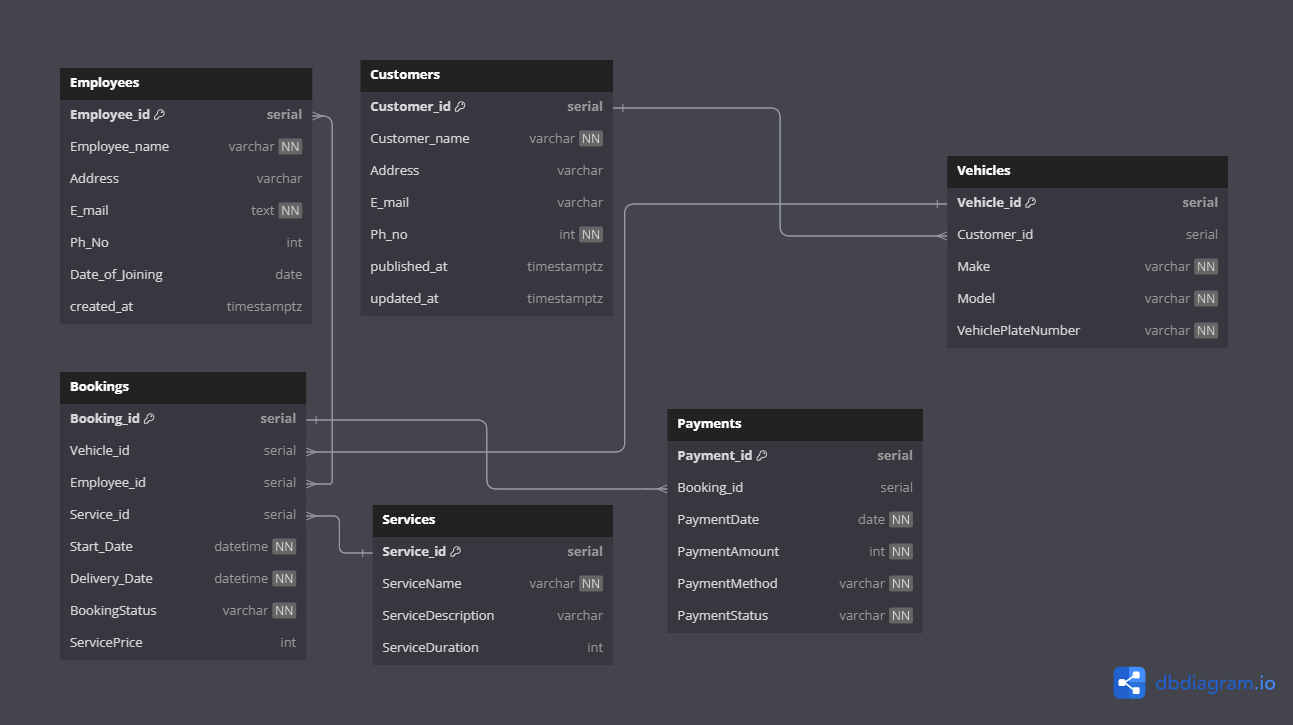
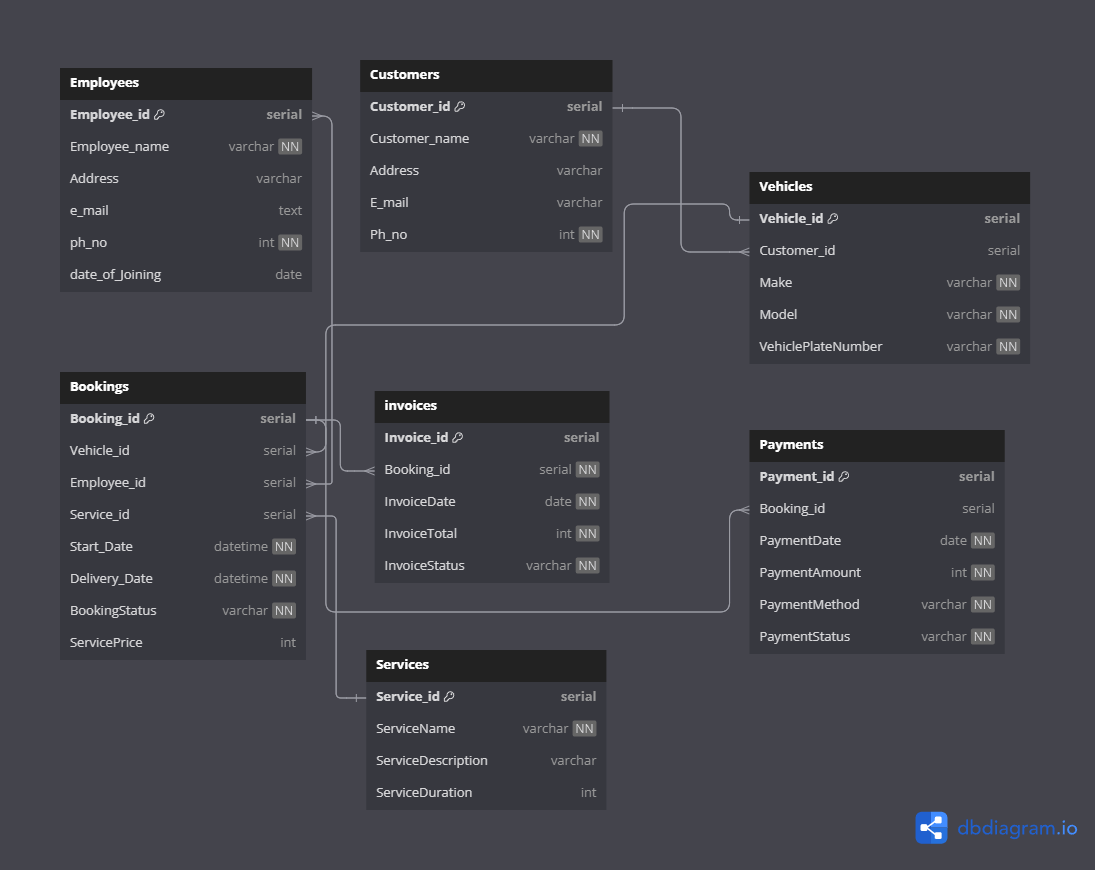
Addition of Customer, Vehicle Booking, Relations..

diff --git a/src/main/java/com/GarageManager/webservices/rest/GarageManager_restful_web_services/Employees/Employee.java b/src/main/java/com/GarageManager/webservices/rest/GarageManager_restful_web_services/Employees/Employee.java
@@ -5,7 +5,8 @@ import java.time.LocalDate;
 import jakarta.persistence.Entity;
 import jakarta.persistence.GeneratedValue;
 import jakarta.persistence.Id;
-import jakarta.validation.constraints.Past;
+import jakarta.validation.constraints.Email;
+import jakarta.validation.constraints.NotNull;
 import jakarta.validation.constraints.Size;
 
 @Entity
@@ -19,45 +20,106 @@ public class Employee {
 	@GeneratedValue
 	private Integer employee_id; 
 	
-	@Size(min=3, max=30,message = "Name Should have Atleast have 3 characters")
+	@Size(min=3, max=30,message = "Name Should have Atleast 3 characters")
 	private String employee_name;
-	@Past(message= "Birth Date Should be in Past")
-	private LocalDate birthDate;
 	
-	public Employee(Integer id, String name, LocalDate birthDate) {
+	@Size(max=30,message = "Address Should Not have More than 30 characters")
+	private String address;
+	
+	@Email(regexp = ".+[@].+[\\.].+")
+	private String e_mail;
+	
+	@NotNull
+	private long ph_no;
+	
+	private LocalDate date_of_Joining;
+	
+	
+	public Employee(Integer employee_id,
+			String employee_name,
+			String address,
+			String e_mail,
+			long ph_no,
+			LocalDate date_of_Joining) {
 		super();
-		this.employee_id = id;
-		this.employee_name = name;
-		this.birthDate = birthDate;
+		this.employee_id = employee_id;
+		this.employee_name = employee_name;
+		this.address = address;
+		this.e_mail = e_mail;
+		this.ph_no = ph_no;
+		this.date_of_Joining = date_of_Joining;
 	}
+
 
 	public Integer getEmployee_id() {
 		return employee_id;
 	}
 
-	public void setEmployee_id(Integer id) {
-		this.employee_id = id;
+
+	public void setEmployee_id(Integer employee_id) {
+		this.employee_id = employee_id;
 	}
+
 
 	public String getEmployee_name() {
 		return employee_name;
 	}
 
-	public void setEmployee_name(String name) {
-		this.employee_name = name;
+
+	public void setEmployee_name(String employee_name) {
+		this.employee_name = employee_name;
 	}
 
-	public LocalDate getBirthDate() {
-		return birthDate;
+
+	public String getAddress() {
+		return address;
 	}
 
-	public void setBirthDate(LocalDate birthDate) {
-		this.birthDate = birthDate;
+
+	public void setAddress(String address) {
+		this.address = address;
 	}
+
+
+	public String getE_mail() {
+		return e_mail;
+	}
+
+
+	public void setE_mail(String e_mail) {
+		this.e_mail = e_mail;
+	}
+
+
+	public long getPh_no() {
+		return ph_no;
+	}
+
+
+	public void setPh_no(long ph_no) {
+		this.ph_no = ph_no;
+	}
+
+
+	public LocalDate getDate_of_Joining() {
+		return date_of_Joining;
+	}
+
+
+	public void setDate_of_Joining(LocalDate date_of_Joining) {
+		this.date_of_Joining = date_of_Joining;
+	}
+
 
 	@Override
 	public String toString() {
-		return "Employees [id=" + employee_id + ", name=" + employee_name + ", birthDate=" + birthDate + "]";
+		return "Employee [employee_id=" + employee_id + ", employee_name=" + employee_name + ", address=" + address
+				+ ", e_mail=" + e_mail + ", ph_no=" + ph_no + ", date_of_Joining=" + date_of_Joining + "]";
 	}
+	
+
+	
+
+	
 
 }

diff --git a/src/main/java/com/GarageManager/webservices/rest/GarageManager_restful_web_services/Customers/Customer.java b/src/main/java/com/GarageManager/webservices/rest/GarageManager_restful_web_services/Customers/Customer.java
@@ -1,0 +1,96 @@
+package com.GarageManager.webservices.rest.GarageManager_restful_web_services.Customers;
+
+import java.util.List;
+
+import com.GarageManager.webservices.rest.GarageManager_restful_web_services.Vehicles.Vehicle;
+import com.fasterxml.jackson.annotation.JsonIgnore;
+
+import jakarta.persistence.Entity;
+import jakarta.persistence.GeneratedValue;
+import jakarta.persistence.Id;
+import jakarta.persistence.OneToMany;
+import jakarta.validation.constraints.Email;
+import jakarta.validation.constraints.NotNull;
+import jakarta.validation.constraints.Size;
+
+@Entity
+public class Customer {
+	
+	@Id
+	@GeneratedValue
+	private Integer customer_id; 
+	
+	@Size(min=3, max=30,message = "Name Should have Atleast 3 characters")
+	private String customer_name;
+
+	@Size(max=30,message = "Address Should Not have More than 30 characters")
+	private String address;
+	
+	@Email(regexp = ".+[@].+[\\.].+")
+	private String e_mail;
+	
+	@NotNull
+	private long ph_no;
+	
+	@OneToMany(mappedBy = "customer")
+	@JsonIgnore
+	private List<Vehicle> vehicles;
+
+	public Customer(Integer customer_id,
+			@Size(min = 3, max = 30, message = "Name Should have Atleast 3 characters") String customer_name,
+			@Size(max = 30, message = "Address Should Not have More than 30 characters") String address,
+			@Email(regexp = ".+[@].+[\\.].+") String e_mail, @NotNull long ph_no) {
+		super();
+		this.customer_id = customer_id;
+		this.customer_name = customer_name;
+		this.address = address;
+		this.e_mail = e_mail;
+		this.ph_no = ph_no;
+	}
+
+	public Integer getCustomer_id() {
+		return customer_id;
+	}
+
+	public void setCustomer_id(Integer customer_id) {
+		this.customer_id = customer_id;
+	}
+
+	public String getCustomer_name() {
+		return customer_name;
+	}
+
+	public void setCustomer_name(String customer_name) {
+		this.customer_name = customer_name;
+	}
+
+	public String getAddress() {
+		return address;
+	}
+
+	public void setAddress(String address) {
+		this.address = address;
+	}
+
+	public String getE_mail() {
+		return e_mail;
+	}
+
+	public void setE_mail(String e_mail) {
+		this.e_mail = e_mail;
+	}
+
+	public long getPh_no() {
+		return ph_no;
+	}
+
+	public void setPh_no(long ph_no) {
+		this.ph_no = ph_no;
+	}
+
+	@Override
+	public String toString() {
+		return "Customer [customer_id=" + customer_id + ", customer_name=" + customer_name + ", address=" + address
+				+ ", e_mail=" + e_mail + ", ph_no=" + ph_no + "]";
+	}
+}

diff --git a/src/main/java/com/GarageManager/webservices/rest/GarageManager_restful_web_services/Vehicles/Vehicle.java b/src/main/java/com/GarageManager/webservices/rest/GarageManager_restful_web_services/Vehicles/Vehicle.java
@@ -1,0 +1,73 @@
+package com.GarageManager.webservices.rest.GarageManager_restful_web_services.Vehicles;
+
+import com.GarageManager.webservices.rest.GarageManager_restful_web_services.Customers.Customer;
+import com.fasterxml.jackson.annotation.JsonIgnore;
+
+import jakarta.persistence.Entity;
+import jakarta.persistence.FetchType;
+import jakarta.persistence.GeneratedValue;
+import jakarta.persistence.Id;
+import jakarta.persistence.JoinColumn;
+import jakarta.persistence.ManyToOne;
+import jakarta.validation.constraints.NotNull;
+
+@Entity
+public class Vehicle {
+	
+	@Id
+	@GeneratedValue
+	private Integer vehicle_id;
+	
+	@ManyToOne(fetch = FetchType.LAZY)
+	@JoinColumn(name="customer_id")
+	@JsonIgnore
+	private Customer customer;
+	
+	@NotNull
+	private String make;
+	
+	@NotNull
+	private String model;
+	
+	@NotNull
+	private String VehiclePlateNumber;
+
+	public Integer getVehicle_id() {
+		return vehicle_id;
+	}
+
+	public void setVehicle_id(Integer vehicle_id) {
+		this.vehicle_id = vehicle_id;
+	}
+
+	public String getMake() {
+		return make;
+	}
+
+	public void setMake(String make) {
+		this.make = make;
+	}
+
+	public String getModel() {
+		return model;
+	}
+
+	public void setModel(String model) {
+		this.model = model;
+	}
+
+	public String getVehiclePlateNumber() {
+		return VehiclePlateNumber;
+	}
+
+	public void setVehiclePlateNumber(String vehiclePlateNumber) {
+		VehiclePlateNumber = vehiclePlateNumber;
+	}
+
+	@Override
+	public String toString() {
+		return "Vehicle [vehicle_id=" + vehicle_id + ", customer=" + customer + ", make=" + make + ", model=" + model
+				+ ", VehiclePlateNumber=" + VehiclePlateNumber + "]";
+	}
+
+}

diff --git a/src/main/java/com/GarageManager/webservices/rest/GarageManager_restful_web_services/Employees/EmployeeDaoService.java b/src/main/java/com/GarageManager/webservices/rest/GarageManager_restful_web_services/Employees/EmployeeDaoService.java
@@ -17,9 +17,9 @@ public class EmployeeDaoService {
 	private static int userCount = 0;
 	
 	static {
-		employees.add(new Employee(++userCount,"Adam",LocalDate.now().minusYears(30)));
-		employees.add(new Employee(++userCount,"eve",LocalDate.now().minusYears(25)));
-		employees.add(new Employee(++userCount,"jim",LocalDate.now().minusYears(20)));
+		employees.add(new Employee(++userCount,"Adam","Hyderabad,India","someone@email.com",9563654715L,LocalDate.now().minusYears(25)));
+		employees.add(new Employee(++userCount,"eve","Hyderabad,India","someone@email.com",7543554715L,LocalDate.now().minusYears(20)));
+		employees.add(new Employee(++userCount,"jim","Hyderabad,India","someone@email.com",8963254715L,LocalDate.now().minusYears(10)));
 	}
 	
 	public Employee save(Employee employee) {

diff --git a/src/main/java/com/GarageManager/webservices/rest/GarageManager_restful_web_services/Bookings/Booking.java b/src/main/java/com/GarageManager/webservices/rest/GarageManager_restful_web_services/Bookings/Booking.java
@@ -1,0 +1,26 @@
+package com.GarageManager.webservices.rest.GarageManager_restful_web_services.Bookings;
+
+import com.GarageManager.webservices.rest.GarageManager_restful_web_services.Vehicles.Vehicle;
+import com.fasterxml.jackson.annotation.JsonIgnore;
+
+import jakarta.persistence.FetchType;
+import jakarta.persistence.GeneratedValue;
+import jakarta.persistence.Id;
+import jakarta.persistence.JoinColumn;
+import jakarta.persistence.ManyToOne;
+
+public class Booking {
+	
+	@Id
+	@GeneratedValue
+	private Integer booking_id;
+	
+	@ManyToOne(fetch = FetchType.LAZY)
+	@JoinColumn(name="vehicle_id")
+	@JsonIgnore
+	private Vehicle vehicle;
+	
+	
+	
+
+}
